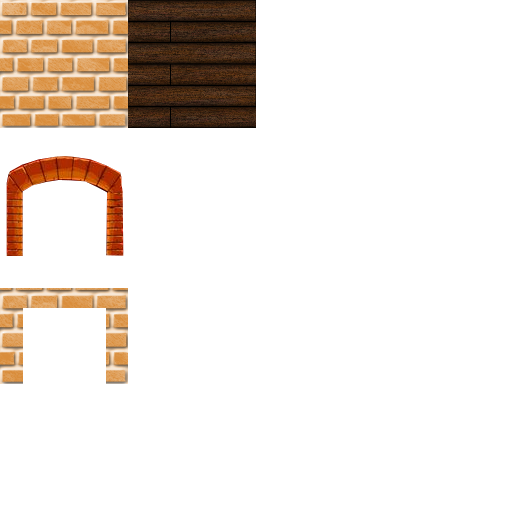
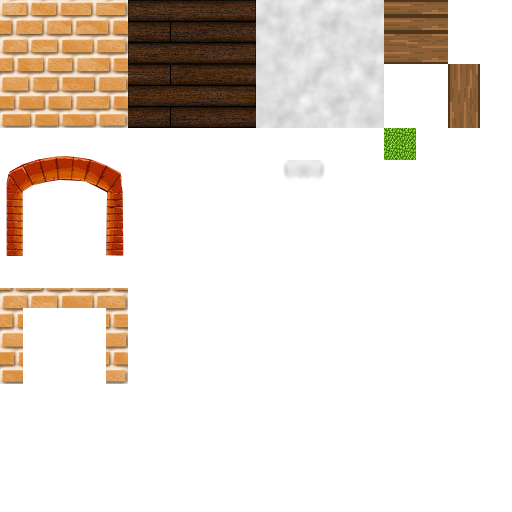
Added room wall and floor tile graphics. Added snow decorations.

diff --git a/src/game/Game.js b/src/game/Game.js
@@ -213,6 +213,7 @@ OneRoom.Game.prototype.loadLevelTilemap = function()
   this.map.createLayer( "Middleground" );
   this.map.createLayer( "Decorations" );
   this.layer = this.map.createLayer( "Platforms" );
+  this.layer.visible = false;
   
   this.objectLayer = this.map.createLayer( "Decorations" );
   this.objectLayer.visible = false;
